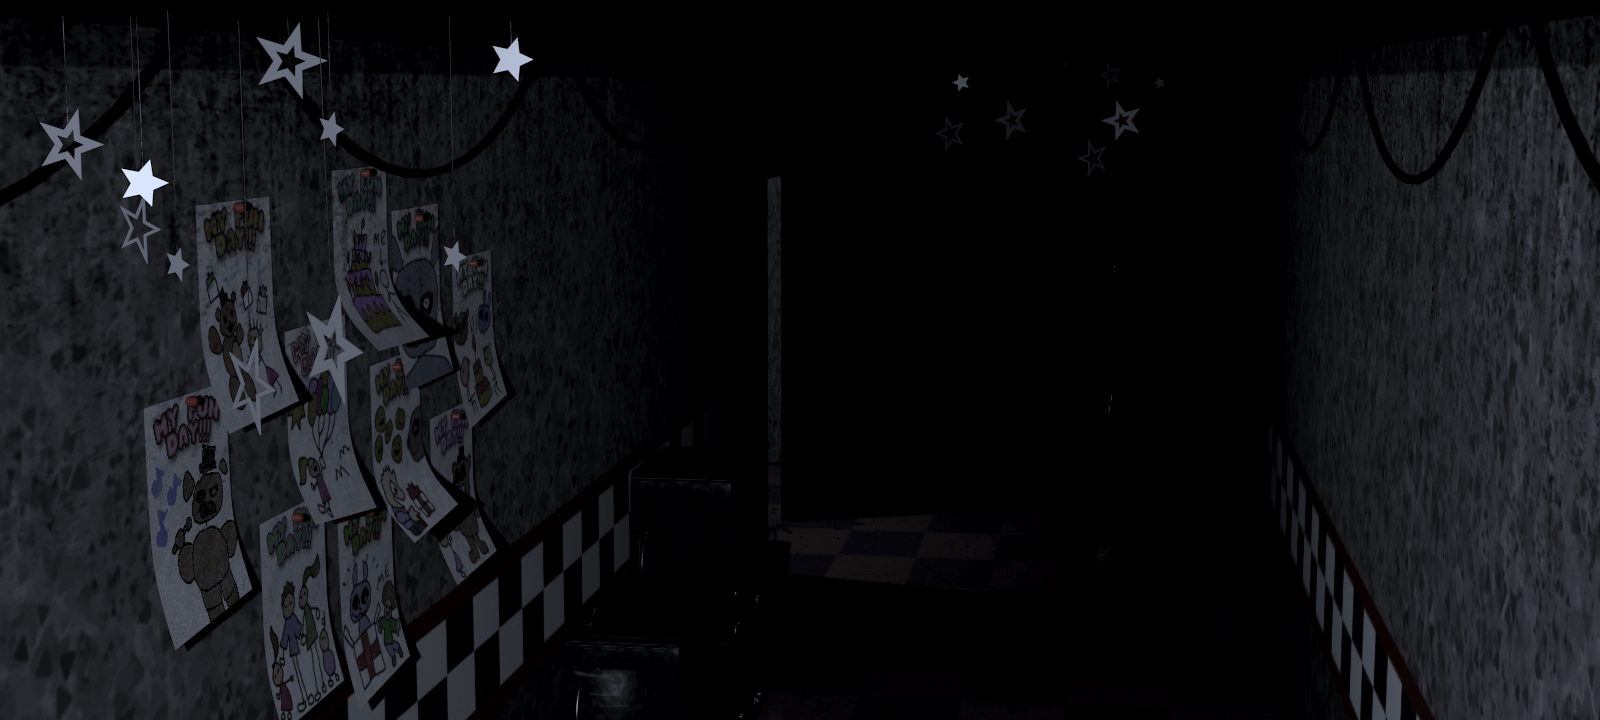
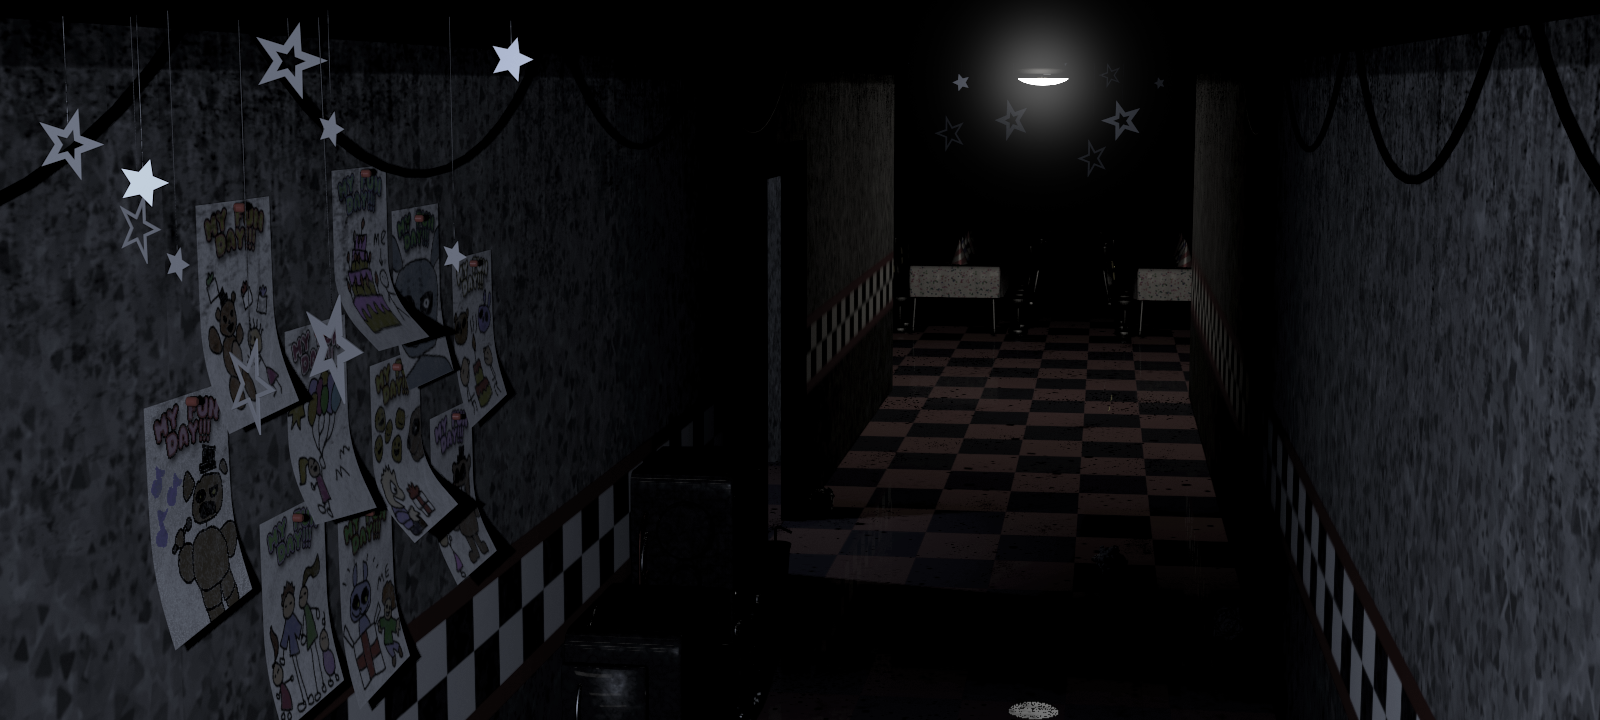
[업데이트] 보니 움직임 HallDining까지 완료

diff --git a/DirectX_PKT/MyCore/WestHall.h b/DirectX_PKT/MyCore/WestHall.h
@@ -6,6 +6,7 @@
 #include "RoomManager.h"
 class WestHall :public RoomManager
 {
+	GENERATED_BODY(AActor)
 public:
 	// constructor destructor
 	WestHall();
@@ -16,5 +17,20 @@ public:
 	WestHall(WestHall&& _Other) noexcept = delete;
 	WestHall& operator=(const WestHall& _Other) = delete;
 	WestHall& operator=(WestHall&& _Other) = delete;
+protected:
+	void BeginPlay() override;
+	void Tick(float _DeltaTime) override;
+	void RendererOff();
+	void RendererOn();
+	void MapUpdate()override;
+private:
+	std::string FindImageName(std::vector<std::string> _Statename, std::string _MonsterLocal);
+	USpriteRenderer* RoomRender = nullptr;
+	Animatronics* Monster = nullptr;
+	Animatronics* PrevMonster = nullptr;
+	std::vector<std::string> RoomStatename = { "WestHall","WestHallBonnie"};
+
+	void SettingSpriteName(int _Index) override;
+
 };
 

diff --git a/DirectX_PKT/MyCore/HallDining.h b/DirectX_PKT/MyCore/HallDining.h
@@ -29,6 +29,7 @@ public:
 	void ChangeRoomCamera(Animatronics* _Monster) override;
 	void MapChangeSprite(Animatronics* _Monster);
 
+
 protected:
 	void BeginPlay() override;
 	void Tick(float _DeltaTime) override;
@@ -39,10 +40,10 @@ private:
 	std::string FindImageName(std::vector<std::string> _Statename, std::string _MonsterLocal);
 	USpriteRenderer* RoomRender = nullptr;
 	Animatronics* Monster = nullptr;
+	Animatronics* PrevMonster = nullptr;
 	std::vector<std::string> RoomStatename = { "HallDining","HallDining2","HallDiningBonni","HallDiningBonnie2","HallDiningChica","HallDiningChica2" };
 
 	void SettingSpriteName(int _Index) override;
-
 
 };
 

diff --git a/DirectX_PKT/MyCore/WestHall.cpp b/DirectX_PKT/MyCore/WestHall.cpp
@@ -8,3 +8,41 @@ WestHall::WestHall()
 WestHall::~WestHall()
 {
 }
+
+void WestHall::BeginPlay()
+{
+	Super::BeginPlay();
+}
+
+void WestHall::Tick(float _DeltaTime)
+{
+	Super::Tick(_DeltaTime);
+}
+void WestHall::SettingSpriteName(int _Index = 0)
+{
+
+	CurRoomSpriteName = RoomStatename[_Index];
+}
+
+void WestHall::MapUpdate()
+{
+	Monster = GetMonster();
+
+	if (Monster != nullptr)
+	{
+		std::string CheckName = Monster->GetName();
+		if (CheckName == "Bonni")
+		{
+			SettingSpriteName(1);
+			PrevMonster = Monster;
+			return;
+		}
+
+	}
+
+	//SettingSpriteName(0);
+
+
+
+
+}

diff --git a/DirectX_PKT/MyCore/PirateRoom.h b/DirectX_PKT/MyCore/PirateRoom.h
@@ -25,12 +25,12 @@ public:
 
 
 	void SetMonster(Animatronics* _Monster);
-	
+
 
 protected:
 	void BeginPlay() override;
 	void Tick(float _DeltaTime) override;
-
+	void MapUpdate() override;
 	void RendererOff();
 	void RendererOn();
 
@@ -38,8 +38,9 @@ private:
 
 	USpriteRenderer* RoomRender = nullptr;
 	Animatronics* Monster = nullptr;
+	Animatronics* PrevMonster = nullptr;
 	bool isMonster = false;
 
-
+	std::vector<std::string> RoomStatename = { "PirateRoom" , "PirateRoom2","PirateRoom3","PirateRoom4","PirateRoom5" }
 };
 

diff --git a/DirectX_PKT/MyCore/PirateRoom.cpp b/DirectX_PKT/MyCore/PirateRoom.cpp
@@ -17,7 +17,7 @@ PirateRoom::PirateRoom()
 	RoomRender->SetOrder(105);
 	RoomRender->SetActive(true);
 	
-	
+	//MapUpdate();
 
 	SetRoot(Default);
 
@@ -61,7 +61,23 @@ void PirateRoom::SetMonster(Animatronics* _Monster)
 }
 
 
+void PirateRoom::MapUpdate()
+{
 
+	Monster = GetMonster();
+
+	if (Monster != nullptr)
+	{
+		std::string CheckName = Monster->GetName();
+		if (CheckName == "Foxy")
+		{
+			SettingSpriteName(2);
+			PrevMonster = Monster;
+			return;
+		}
+
+	}
+}
 
 
 

diff --git a/DirectX_PKT/MyCore/HallDining.cpp b/DirectX_PKT/MyCore/HallDining.cpp
@@ -49,7 +49,9 @@ void HallDining::BeginPlay()
 void HallDining::Tick(float _DeltaTime)
 {
 	Super::Tick(_DeltaTime);
+	
 	MapUpdate();
+	
 }
 
 
@@ -98,12 +100,13 @@ void HallDining::MapUpdate()
 		if (CheckName == "Bonni")
 		{
 			SettingSpriteName(2);
+			PrevMonster = Monster;
 			return;
 		}
 
 	}
-
-	SettingSpriteName(0);
+	
+	//SettingSpriteName(0);
 
 	
 

diff --git a/DirectX_PKT/MyCore/CCTVBackGround.cpp b/DirectX_PKT/MyCore/CCTVBackGround.cpp
@@ -124,6 +124,12 @@ void CCTVBackGround::ChangeCam(RoomManager* _UICamName)
 	{
 		return;
 	}
+	if (_UICamName->GetMonster() != nullptr)
+	{
+		_UICamName->GetCurRoomSpriteName();
+
+
+	}
 	std::string ChangeCamName = _UICamName->GetCurRoomSpriteName();
 	ChangeCamName.append(".png");
 

diff --git a/DirectX_PKT/MyCore/Bonni.cpp b/DirectX_PKT/MyCore/Bonni.cpp
@@ -74,7 +74,7 @@ void Bonni::SetCurLocation()
 		else
 		{
 			CurState = BonniLocation::WestHall;
-			//CurRoomInfo[3]->SetMonster(this);
+			CurRoomInfo[3]->SetMonster(this);
 			CurLocation = "WestHall";
 		}
 
